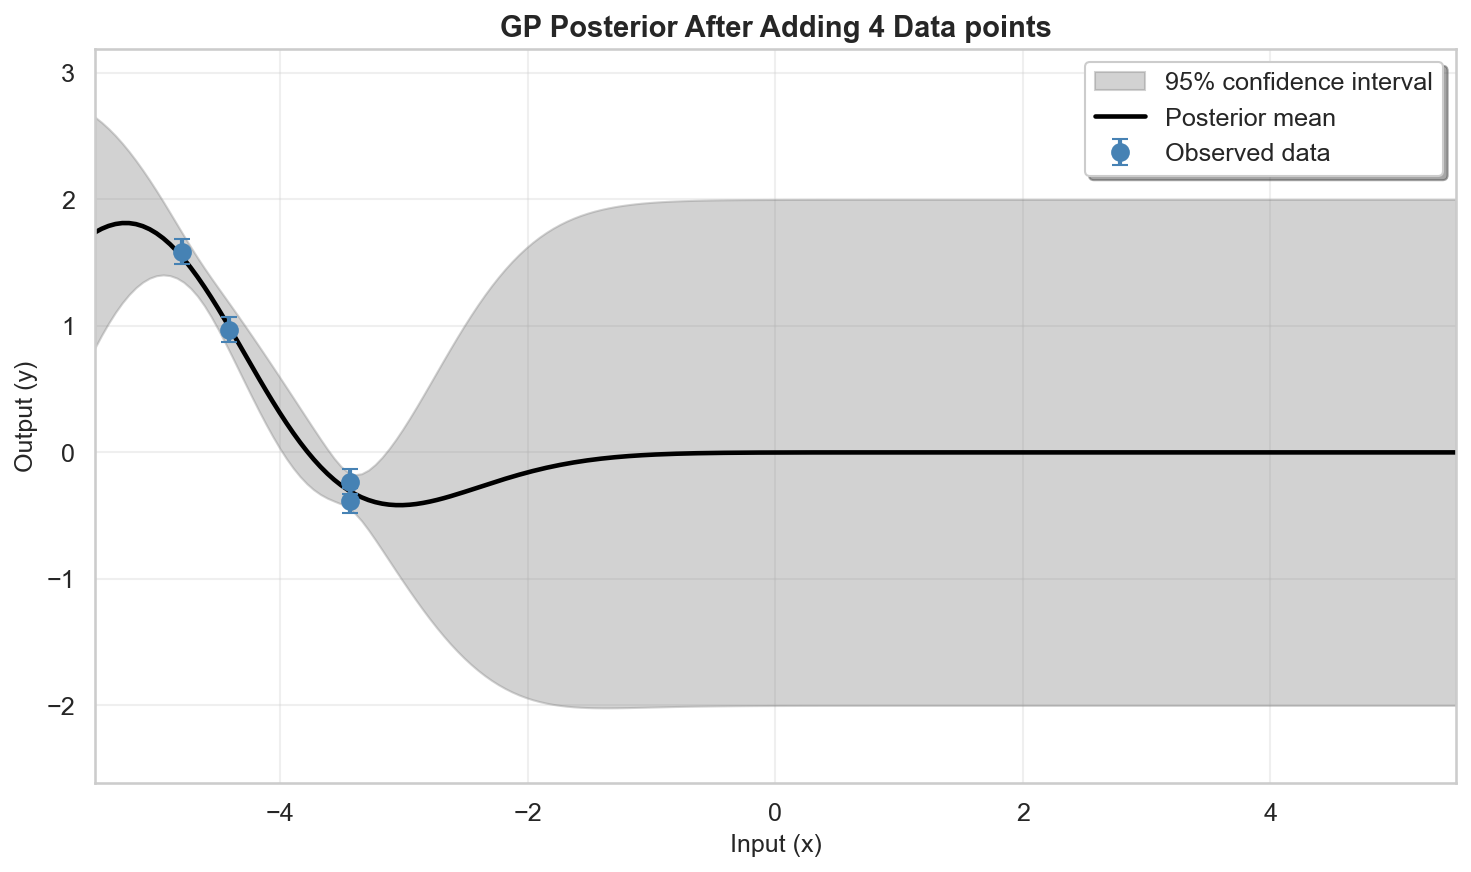
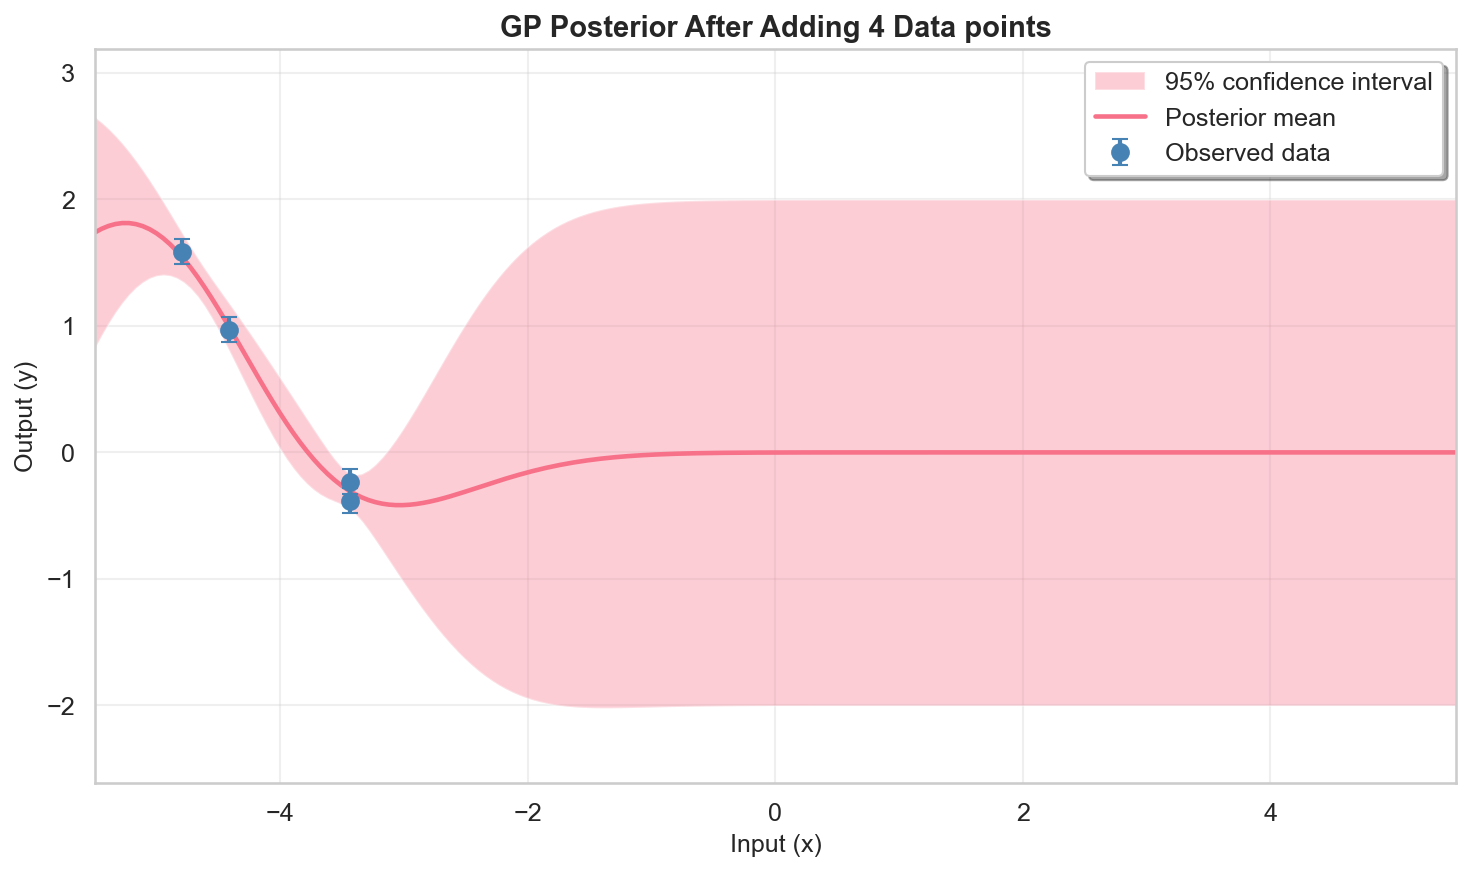
Added animation

diff --git a/gp_prior_plots.py b/gp_prior_plots.py
@@ -1,5 +1,6 @@
 import numpy as np
 import matplotlib.pyplot as plt
+import matplotlib.animation as animation
 import seaborn as sns
 
 
@@ -77,11 +78,10 @@ ax1.fill_between(
     X_prior,
     prior_mean - sigma * prior_sd,
     prior_mean + sigma * prior_sd,
-    color="gray",
     alpha=0.35,
     label="95% confidence interval",
 )
-ax1.plot(X_prior, prior_mean, color="black", lw=2, label="Prior mean")
+ax1.plot(X_prior, prior_mean, lw=2, label="Prior mean")
 
 ax1.set_title("GP Prior: Mean 0 with 2-sigma Confidence Interval",
               fontsize=14, fontweight="bold")
@@ -102,11 +102,10 @@ ax2.fill_between(
     X_prior,
     prior_mean - sigma * prior_sd,
     prior_mean + sigma * prior_sd,
-    color="gray",
     alpha=0.35,
     label="95% confidence interval",
 )
-ax2.plot(X_prior, prior_mean, color="black", lw=2, label="Prior mean")
+ax2.plot(X_prior, prior_mean, lw=2, label="Prior mean")
 
 draw_colors = sns.color_palette("husl", 3)
 for i, color in enumerate(draw_colors, start=1):
@@ -165,11 +164,10 @@ for n, X_n, y_n, mu_n, sd_n in posteriors:
         X_prior,
         mu_n - sigma * sd_n,
         mu_n + sigma * sd_n,
-        color="gray",
         alpha=0.35,
         label="95% confidence interval",
     )
-    ax.plot(X_prior, mu_n, color="black", lw=2.2, label="Posterior mean")
+    ax.plot(X_prior, mu_n, lw=2.2, label="Posterior mean")
     ax.errorbar(
         X_n,
         y_n,
@@ -198,3 +196,63 @@ for n, X_n, y_n, mu_n, sd_n in posteriors:
     plt.savefig(
         f"gp_posterior_added_points_{n}.png", dpi=150, bbox_inches="tight")
     plt.show()
+
+# ----- Animation: GIF of posterior updates -----
+prop_cycle = plt.rcParams["axes.prop_cycle"]
+colors = prop_cycle.by_key()["color"]
+ci_color = colors[0]
+mean_color = colors[0]
+
+fig_anim, ax_anim = plt.subplots(figsize=(10, 6))
+
+
+def draw_frame(frame_data):
+    n, X_n, y_n, mu_n, sd_n = frame_data
+    ax_anim.cla()
+    ax_anim.fill_between(
+        X_prior,
+        mu_n - sigma * sd_n,
+        mu_n + sigma * sd_n,
+        color=ci_color,
+        alpha=0.35,
+        label="95% confidence interval",
+    )
+    ax_anim.plot(X_prior, mu_n, color=mean_color,
+                 lw=2.2, label="Posterior mean")
+    ax_anim.errorbar(
+        X_n,
+        y_n,
+        yerr=sn_data,
+        fmt="o",
+        ms=8,
+        elinewidth=2,
+        capsize=4,
+        label="Observed data",
+        color="steelblue",
+    )
+    point_label = "point" if n == 1 else "points"
+    ax_anim.set_title(
+        f"GP Posterior After Adding {n} Data {point_label}",
+        fontsize=14,
+        fontweight="bold",
+    )
+    ax_anim.set_xlabel("Input (x)", fontsize=12)
+    ax_anim.set_ylabel("Output (y)", fontsize=12)
+    ax_anim.set_xlim(-5.5, 5.5)
+    ax_anim.set_ylim(posterior_y_min, posterior_y_max)
+    ax_anim.legend(loc="best", frameon=True, shadow=True)
+    ax_anim.grid(True, alpha=0.3)
+
+
+anim = animation.FuncAnimation(
+    fig_anim,
+    draw_frame,
+    frames=posteriors,
+    interval=4000,  # 4 seconds per frame
+    repeat=True,
+)
+
+plt.tight_layout()
+anim.save("gp_posterior_animation.gif", writer="pillow", fps=0.25, dpi=100)
+print("Saved gp_posterior_animation.gif")
+plt.close(fig_anim)
